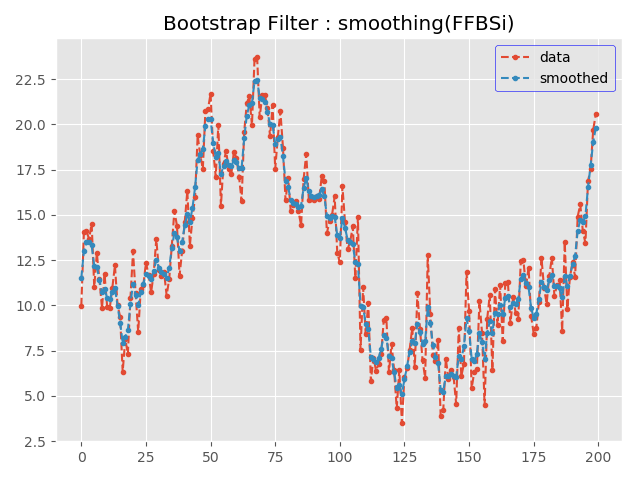
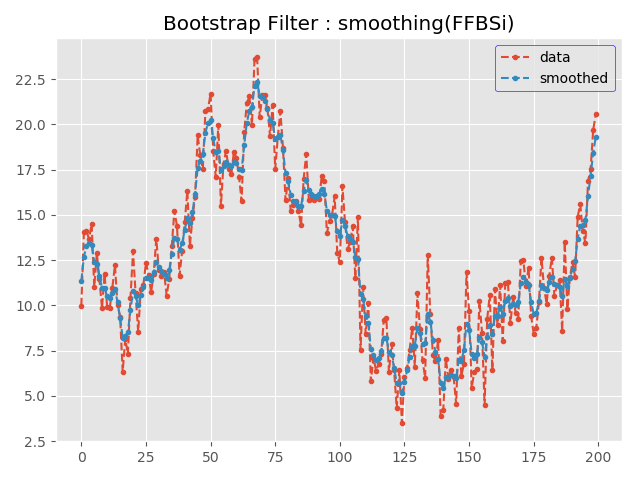
correct 2-4

Changed region(s): [[0.5625, 0.25, 0.9375, 0.8125], [0.1562, 0.1562, 0.5625, 0.7188], [0.125, 0.5, 0.1562, 0.5938]]

diff --git a/tsbook-code11_2.py b/tsbook-code11_2.py
@@ -47,7 +47,7 @@ w[0,:] = 1/N
 # 時間順方向の処理
 for tt in np.arange(t_max)+1 :
     # 提案分布：状態方程式を使用。粒子を生成する。
-    x[tt,:] = np.random.normal(loc=x[tt-1,:], scale=np.sqrt(mod["V"][0][0]), size=N)
+    x[tt,:] = np.random.normal(loc=x[tt-1,:], scale=np.sqrt(mod["W"][0][0]), size=N)
     # 重みを更新。 bootstrap filterなので、観測方程式をそのまま使えば良い。
     w[tt,:] = w[tt-1,:] * sct.norm.pdf(y[tt], loc=x[tt,:], scale=np.sqrt(mod["V"]))
     # 重みの規格化
@@ -83,8 +83,9 @@ plt.figure(1)
 plt.plot(y, marker=".", linestyle="--")
 plt.plot(np.mean(x, axis=1), marker=".", linestyle="--")
 plt.title('Bootstrap Filter : prediction')
-plt.legend(["data", "filtered"], frameon=True, edgecolor="b")
+plt.legend(["data", "predicted"], frameon=True, edgecolor="b")
 plt.tight_layout(); plt.show()
+plt.savefig('result/mean_11-2.png')
 
 # 50%区間のプロット
 plt.figure(2)
@@ -92,7 +93,7 @@ plt.plot(np.arange(t_max), y, marker=".", linestyle="--")
 plt.fill_between(np.arange(t_max+10), y1=np.percentile(x, 75, axis=1), 
                  y2=np.percentile(x, 25, axis=1), facecolor="b", alpha=0.3)
 plt.title('Bootstrap Filter : prediction')
-plt.legend(["data", "filtered"], frameon=True, edgecolor="b")
+plt.legend(["data", "predicted"], frameon=True, edgecolor="b")
 plt.tight_layout(); plt.show()
-
+plt.savefig('result/percentile_11-2.png')
 

diff --git a/tsbook-code11_3.py b/tsbook-code11_3.py
@@ -47,7 +47,7 @@ w[0,:] = 1/N
 # 時間順方向の処理
 for tt in np.arange(t_max)+1 :
     # 提案分布：状態方程式を使用。粒子を生成する。
-    x[tt,:] = np.random.normal(loc=x[tt-1,:], scale=np.sqrt(mod["V"][0][0]), size=N)
+    x[tt,:] = np.random.normal(loc=x[tt-1,:], scale=np.sqrt(mod["W"][0][0]), size=N)
     # 重みを更新。 bootstrap filterなので、観測方程式をそのまま使えば良い。
     w[tt,:] = w[tt-1,:] * sct.norm.pdf(y[tt], loc=x[tt,:], scale=np.sqrt(mod["V"]))
     # 重みの規格化
@@ -97,8 +97,9 @@ plt.figure(1)
 plt.plot(y, marker=".", linestyle="--")
 plt.plot(np.mean(ki, axis=1), marker=".", linestyle="--")
 plt.title('Bootstrap Filter : smoothing')
-plt.legend(["data", "filtered"], frameon=True, edgecolor="b")
+plt.legend(["data", "smoothed"], frameon=True, edgecolor="b")
 plt.tight_layout(); plt.show()
+plt.savefig('result/mean_11-3.png')
 
 # 50%区間のプロット
 plt.figure(2)
@@ -106,5 +107,6 @@ plt.plot(np.arange(t_max), y, marker=".", linestyle="--")
 plt.fill_between(np.arange(t_max), y1=np.percentile(ki, 75, axis=1), 
                  y2=np.percentile(ki, 25, axis=1), facecolor="b", alpha=0.3)
 plt.title('Bootstrap Filter : smoothing')
-plt.legend(["data", "filtered"], frameon=True, edgecolor="b")
+plt.legend(["data", "smoothed"], frameon=True, edgecolor="b")
 plt.tight_layout(); plt.show()
+plt.savefig('result/percentile_11-3.png')

diff --git a/tsbook-code11_4.py b/tsbook-code11_4.py
@@ -47,7 +47,7 @@ w[0,:] = 1/N
 # 時間順方向の処理
 for tt in np.arange(t_max)+1 :
     # 提案分布：状態方程式を使用。粒子を生成する。
-    x[tt,:] = np.random.normal(loc=x[tt-1,:], scale=np.sqrt(mod["V"][0][0]), size=N)
+    x[tt,:] = np.random.normal(loc=x[tt-1,:], scale=np.sqrt(mod["W"][0][0]), size=N)
     # 重みを更新。 bootstrap filterなので、観測方程式をそのまま使えば良い。
     w[tt,:] = w[tt-1,:] * sct.norm.pdf(y[tt], loc=x[tt,:], scale=np.sqrt(mod["V"]))
     # 重みの規格化
